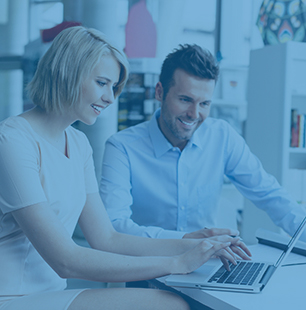
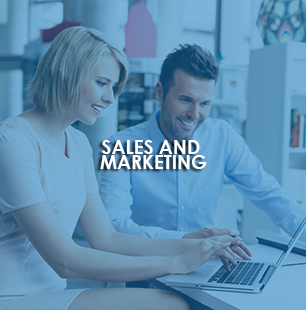
Add files via upload

Changed region(s): [[0.2941, 0.4355, 0.6765, 0.5516]]

diff --git a/ESLIDER/delete.html b/ESLIDER/delete.html
@@ -5,13 +5,12 @@
 <title>Untitled Document</title>
 <style type="text/css">
 *{
-	box-sizing: border-box;
 	font-family: "Century Gothic";
 	color: #FFF;
 	font-size: 14px;
 	font-weight: bolder;
-	text-align: left;
 	text-shadow: 2px 2px 5px rgba(0, 0, 0, 0.88);
+	text-transform: uppercase;
 }
 nav li {
 	
@@ -32,13 +31,12 @@ nav ul {
 nav li a {
 	display: block;
 	text-decoration: none;
-	padding: 5px 10px;
-	padding-top: 235px;
 	/*  font-size:30px;INVERSE SKEW */
 	transform: skew(10deg);
+	clear: both;
 }
 nav li:hover{
-	width: 240px;
+	width: 210px;
 	-webkit-transition: all 1s ease;
 	-moz-transition: all 1s ease;
 	-ms-transition: all 1s ease;
@@ -52,18 +50,17 @@ nav li:hover{
 nav li {
 	background-color: #CF6;
 	height: 310px;
-	width: 220px;
+	width: 210px;
 	text-align: center;
-	vertical-align: baseline;
 	background-position: center center;
 	border-top-width: thick;
 	border-right-width: thick;
 	border-bottom-width: thick;
 	border-left-width: thick;
-	border-top-color: #FFF;
-	border-right-color: #FFF;
-	border-bottom-color: #FFF;
-	border-left-color: #FFF;
+	border-top-color: #1176bc;
+	border-right-color: #1176bc;
+	border-bottom-color: #1176bc;
+	border-left-color: #1176bc;
 	text-indent: 0px;
 }
 
@@ -78,15 +75,15 @@ nav li {
 	border-right-style: solid;
 	border-bottom-style: none;
 	border-left-style: solid;
-	border-top-color: #FFF;
-	border-right-color: #FFF;
-	border-bottom-color: #FFF;
-	border-left-color: #FFF;
+	border-top-color: #1176bc;
+	border-right-color: #1176bc;
+	border-bottom-color: #1176bc;
+	border-left-color: #1176bc;
 }
 #img1:hover {
 	background-attachment: scroll;
 	background-image: url(academy31.jpg);
-
+	background-position: center center;
 }
 
 
@@ -102,10 +99,10 @@ nav li {
 	border-right-style: solid;
 	border-bottom-style: none;
 	border-left-style: solid;
-	border-top-color: #FFF;
-	border-right-color: #FFF;
-	border-bottom-color: #FFF;
-	border-left-color: #FFF;
+	border-top-color: #1176bc;
+	border-right-color: #1176bc;
+	border-bottom-color: #1176bc;
+	border-left-color: #1176bc;
 }
 #img2:hover  {
 	background-attachment: scroll;
@@ -126,10 +123,10 @@ nav li {
 	border-right-style: solid;
 	border-bottom-style: none;
 	border-left-style: solid;
-	border-top-color: #FFF;
-	border-right-color: #FFF;
-	border-bottom-color: #FFF;
-	border-left-color: #FFF;
+	border-top-color: #1176bc;
+	border-right-color: #1176bc;
+	border-bottom-color: #1176bc;
+	border-left-color: #1176bc;
 }
 #img3:hover {
 	background-attachment: scroll;
@@ -149,10 +146,10 @@ nav li {
 	border-right-style: solid;
 	border-bottom-style: none;
 	border-left-style: solid;
-	border-top-color: #FFF;
-	border-right-color: #FFF;
-	border-bottom-color: #FFF;
-	border-left-color: #FFF;
+	border-top-color: #1176bc;
+	border-right-color: #1176bc;
+	border-bottom-color: #1176bc;
+	border-left-color: #1176bc;
 	
 }
 #img4:hover  {
@@ -170,11 +167,17 @@ nav li {
 <body>
 <nav>
   <ul>
-    <li id="img1"><a target="_blank" href="http://estudysa.co.za/services/commercial-training-solutions/">COMMERCIAL TRAINING SOLUTIONS </a></li>
-    <li id="img2"><a target="_blank" href="http://estudysa.co.za/services/academy/">ACCREDITED eSTUDY ACADEMY </a></li>
-    <li id="img3"><a target="_blank" href="http://estudysa.co.za/services/development-of-elearning-material/">DEVELOPMENT OF<br/> MATERIALS    </a></li>
-    <li id="img4"><a target="_blank" href="http://estudysa.co.za/services/community-development/">COMMUNITY DEVELOPMENT SOLUTIONS    </a></li>
+  
+    <a href="https://estudy.eu.crossknowledge.com/site/search/results#context=training&lang=en&chapter=BIC"><li id="img1"><!--Best IC--></li></a>
+    
+    <a href="https://estudy.eu.crossknowledge.com/site/search/results#context=lo&lang=en&theme=Leadership"><li id="img4"><!--Leadership--></li></a>
+    
+    <a href="https://estudy.eu.crossknowledge.com/site/search/results#context=lo&lang=en&theme=Sales%20and%20Marketing"><li id="img3"><!--Sales and Marketing  Marketing--></li></a>
+
+    <a href="https://estudy.eu.crossknowledge.com/site/search/results#context=training&lang=en&chapter=CPD%20Accredited"><li id="img2"><!--CPD Accredited--></li></a>
+    
   </ul>
+</nav>
 </nav>
 
 </body>
